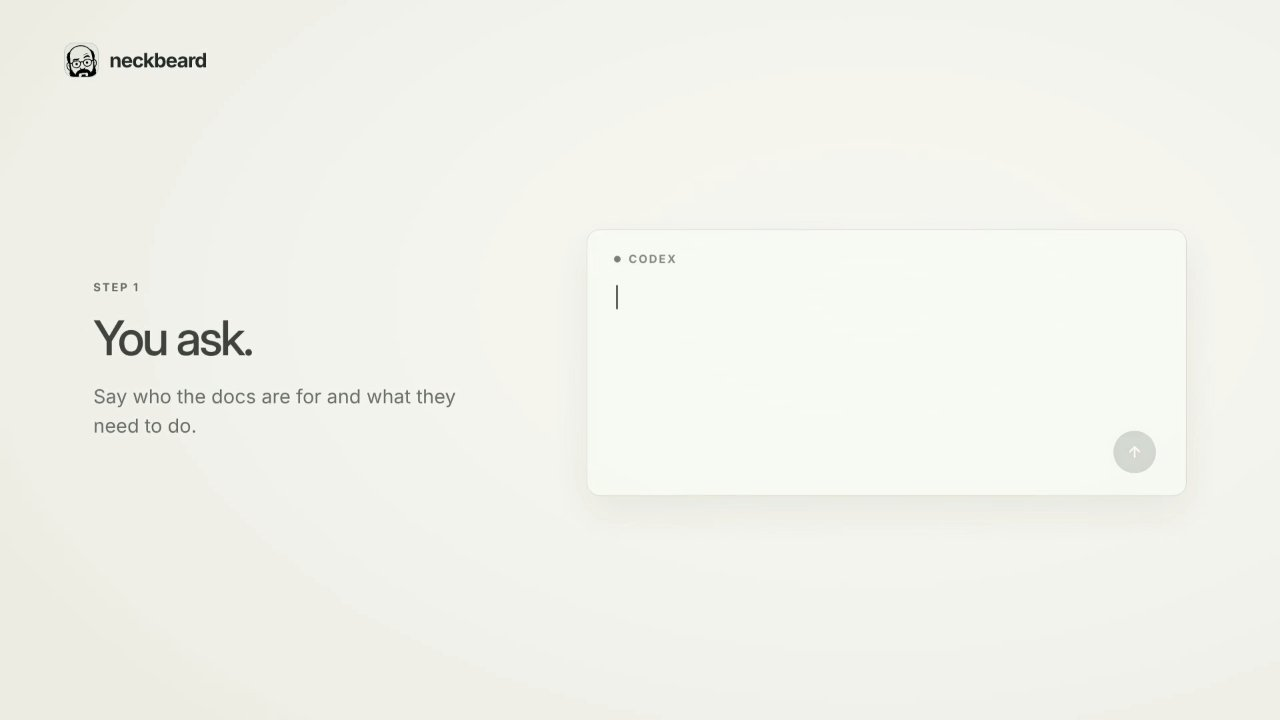
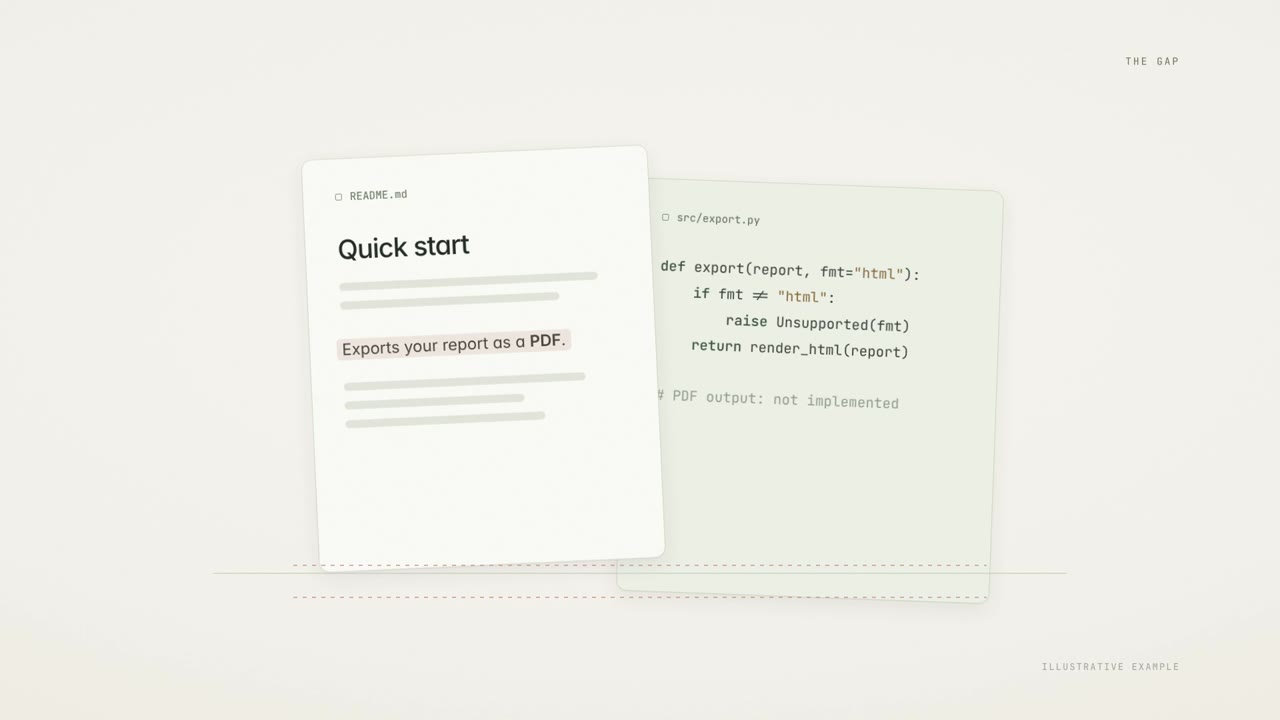
Update overview media fingerprints after the 12 November video update
The overview video and subtitles were replaced on 2026-11-12, but the
Plenum case study still recorded the previous files, so five tests
failed.

- Regenerate docs/case-studies/plenum/neckbeard-overview.vtt from the
  current SRT (38 cues; was 8)
- Re-extract overview-poster.jpg from the current video using the
  recorded method (frame at 8.362891 s, 1280x720)
- Update the four media_assets hashes and descriptions in
  provenance.json; source evidence is unchanged
- Record a new owner approval for provenance.json bound to its new
  bytes, on the owner's instruction of 2026-11-18
- Move the Plenum package's pinned check date to that approval
- PRODUCT.md: the overview runs 2 min 20 s, not 1 minute

All 40 tests pass; release validation passes for both case studies;
checksums verify.

Claude-Session: https://claude.ai/code/session_013ofM8tF9fsJV57UYgUjJQr

diff --git a/tests/test_case_study.py b/tests/test_case_study.py
@@ -38,7 +38,7 @@ class PlenumCaseStudyTests(unittest.TestCase):
         profile = g.profile_check(g.load(ROOT/'.neckbeard/org-profile.yaml'))
         record = g.load(package/'governance.json')
         # Historical package integrity is deterministic; the release CLI checks today's deadline.
-        g.record_check(record, profile, ROOT, release=True, today=date(2026, 11, 12))
+        g.record_check(record, profile, ROOT, release=True, today=date(2026, 11, 18))
         provenance = g.load(package/'provenance.json')
         expected_paths = {item['path'] for item in provenance['files']}
         for document in record['documents']:

diff --git a/PRODUCT.md b/PRODUCT.md
@@ -43,7 +43,7 @@ It reads the code, not just the README, and keeps the difference between "ran it
 
 ## Evidence on Hand
 
-- `docs/assets/neckbeard-overview.mp4` + `neckbeard-overview.srt`: 1-minute narrated overview with captions.
+- `docs/assets/neckbeard-overview.mp4` + `neckbeard-overview.srt`: 2-minute 20-second narrated overview with captions.
 - README, SKILL.md, components.json, evals/ (fixtures, rubric, scored runs).
 - No testimonials, customers, usage numbers, or learner outcome data exist. Do not invent them.
 
